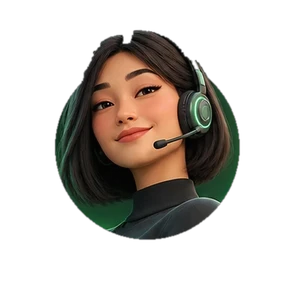
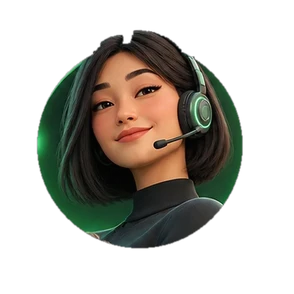
Hero: zoom leva corpo e cabelo inteiros; seção de planos no menu
Claude-Session: https://claude.ai/code/session_01U22dJDADyXkjuuPijgk6AZ

Changed region(s): [[0.1224, 0.1837, 0.8265, 0.8571]]

diff --git a/src/pages/Landing.jsx b/src/pages/Landing.jsx
@@ -2,7 +2,7 @@ import { Link } from 'react-router-dom';
 import Logo, { Endorsement } from '../components/Logo.jsx';
 import HeroDemo from '../components/HeroDemo.jsx';
 import HeroTeam from '../components/HeroTeam.jsx';
-import { IconShield, IconHistory, IconLock } from '../components/Icons.jsx';
+import { IconShield, IconHistory, IconLock, IconCheck } from '../components/Icons.jsx';
 import { useAuth, homeFor } from '../auth.jsx';
 import { useBrand } from '../brand.jsx';
 import './landing.css';
@@ -43,6 +43,29 @@ import logoWhatsapp from '../assets/logos/whatsapp.webp';
 import logoGoogle from '../assets/logos/google.webp';
 import logoTelegram from '../assets/logos/telegram.webp';
 
+// Planos. Os preços ficam como "R$ X" até serem definidos: basta trocar o campo price.
+const plans = [
+  {
+    name: 'Starter',
+    price: 'R$ X',
+    text: 'Para começar com um processo e ver o primeiro agente trabalhando.',
+    features: ['1 agente', 'Até 2 integrações', 'Base de conhecimento da empresa', 'Aprovação humana por ação', 'Suporte por e-mail'],
+  },
+  {
+    name: 'Medium',
+    price: 'R$ X',
+    text: 'Para equipes que querem automatizar vários processos do dia a dia.',
+    features: ['Até 5 agentes', 'Todas as integrações', 'Processos e regras por agente', 'Caixa de conversas com atendimento humano', 'Equipe com papéis e aprovadores'],
+    featured: true,
+  },
+  {
+    name: 'Pro',
+    price: 'R$ X',
+    text: 'Para empresas com alto volume e necessidade de controle total.',
+    features: ['Agentes ilimitados', 'Todas as integrações', 'Maior volume de mensagens', 'Histórico completo e auditoria', 'Suporte prioritário'],
+  },
+];
+
 // Logos das plataformas compatíveis (o nome fica só para leitores de tela).
 const platforms = [
   { name: 'Microsoft 365', src: logoMicrosoft },
@@ -72,6 +95,7 @@ export default function Landing() {
             <a href="#integracoes">Integrações</a>
             <a href="#processos">Processos</a>
             <a href="#seguranca">Segurança</a>
+            <a href="#planos">Planos</a>
           </nav>
           <div className="site-actions">
             {user ? (
@@ -250,6 +274,41 @@ export default function Landing() {
                 </div>
               </li>
             </ul>
+          </div>
+        </section>
+
+        <section id="planos" className="section" aria-labelledby="planos-title">
+          <div className="wrap">
+            <div className="section-head section-head-center">
+              <h2 id="planos-title">
+                Planos para cada <span className="accent">momento da empresa.</span>
+              </h2>
+              <p>Comece pequeno e cresça conforme os agentes assumem mais processos.</p>
+            </div>
+            <div className="plans">
+              {plans.map((plan) => (
+                <article key={plan.name} className={`plan ${plan.featured ? 'plan-featured' : ''}`}>
+                  {plan.featured && <span className="plan-badge">Mais escolhido</span>}
+                  <h3>{plan.name}</h3>
+                  <p className="plan-price">
+                    <strong>{plan.price}</strong>
+                    <span>/mês</span>
+                  </p>
+                  <p className="plan-text">{plan.text}</p>
+                  <Link to={primaryTo} className={`btn ${plan.featured ? 'btn-primary' : 'btn-secondary'} plan-cta`}>
+                    {user ? 'Abrir plataforma' : 'Começar agora'}
+                  </Link>
+                  <ul className="plan-features">
+                    {plan.features.map((f) => (
+                      <li key={f}>
+                        <IconCheck aria-hidden="true" />
+                        {f}
+                      </li>
+                    ))}
+                  </ul>
+                </article>
+              ))}
+            </div>
           </div>
         </section>
 

diff --git a/src/pages/landing.css b/src/pages/landing.css
@@ -497,6 +497,126 @@
   object-fit: contain;
 }
 
+/* Planos */
+
+.section-head-center {
+  margin-inline: auto;
+  text-align: center;
+}
+
+.section-head-center h2,
+.section-head-center p {
+  margin-inline: auto;
+}
+
+.plans {
+  margin-top: 48px;
+  display: grid;
+  grid-template-columns: repeat(3, minmax(0, 1fr));
+  gap: 20px;
+  align-items: stretch;
+}
+
+.plan {
+  position: relative;
+  display: flex;
+  flex-direction: column;
+  gap: 14px;
+  padding: 28px;
+  border: 1px solid var(--line);
+  border-radius: 14px;
+  background: var(--bg);
+}
+
+.plan-featured {
+  background: var(--forest);
+  border-color: var(--forest);
+  color: #fff;
+}
+
+.plan-badge {
+  position: absolute;
+  top: 20px;
+  right: 20px;
+  padding: 4px 10px;
+  border-radius: 999px;
+  background: color-mix(in srgb, var(--lime) 22%, transparent);
+  color: var(--lime);
+  font-size: 0.78rem;
+  font-weight: 600;
+}
+
+.plan h3 {
+  font-size: var(--step-2);
+  font-weight: 600;
+  letter-spacing: -0.02em;
+}
+
+.plan-price {
+  display: flex;
+  align-items: baseline;
+  gap: 6px;
+}
+
+.plan-price strong {
+  font-size: clamp(2rem, 3.4vw, 2.6rem);
+  font-weight: 600;
+  letter-spacing: -0.03em;
+}
+
+.plan-price span,
+.plan-text {
+  color: var(--ink-soft);
+}
+
+.plan-featured .plan-price span,
+.plan-featured .plan-text {
+  color: rgba(255, 255, 255, 0.72);
+}
+
+.plan-cta {
+  justify-content: center;
+}
+
+.plan-features {
+  list-style: none;
+  margin: 8px 0 0;
+  padding: 18px 0 0;
+  border-top: 1px solid var(--line);
+  display: grid;
+  gap: 10px;
+}
+
+.plan-featured .plan-features {
+  border-color: rgba(255, 255, 255, 0.14);
+}
+
+.plan-features li {
+  display: flex;
+  gap: 10px;
+  align-items: flex-start;
+}
+
+.plan-features svg {
+  flex: none;
+  width: 18px;
+  height: 18px;
+  margin-top: 2px;
+  color: var(--leaf);
+}
+
+.plan-featured .plan-features svg {
+  color: var(--lime);
+}
+
+@media (max-width: 900px) {
+  .plans {
+    grid-template-columns: 1fr;
+    max-width: 460px;
+    margin-inline: auto;
+  }
+}
+
 /* Processos */
 
 .process-table {
